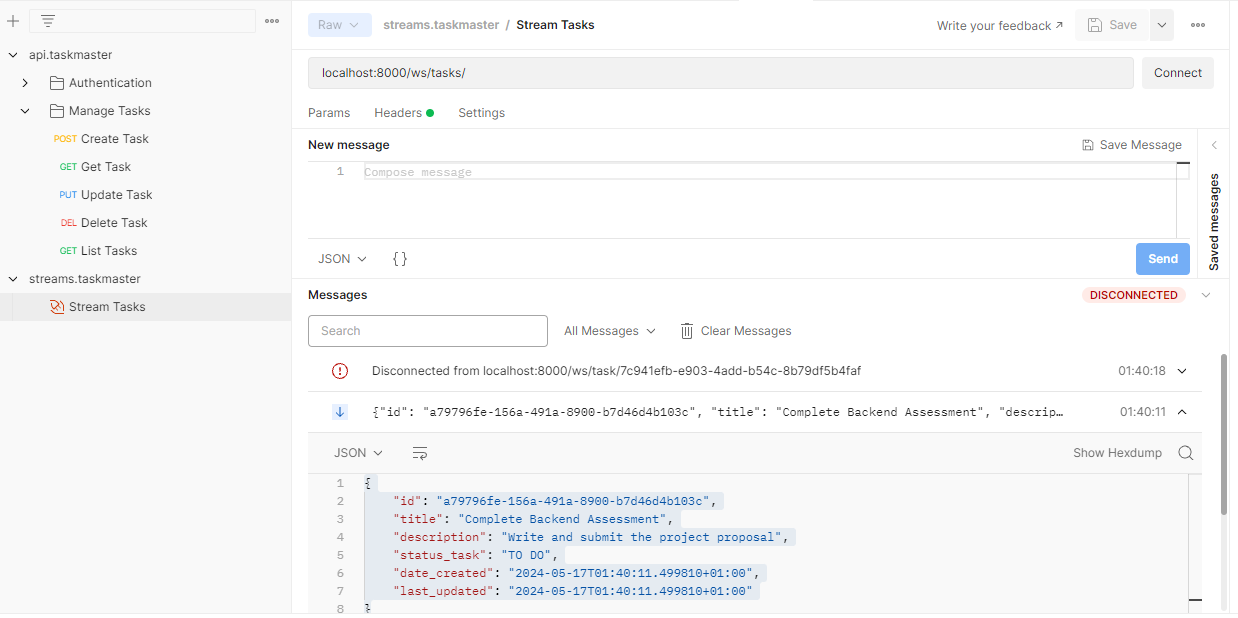
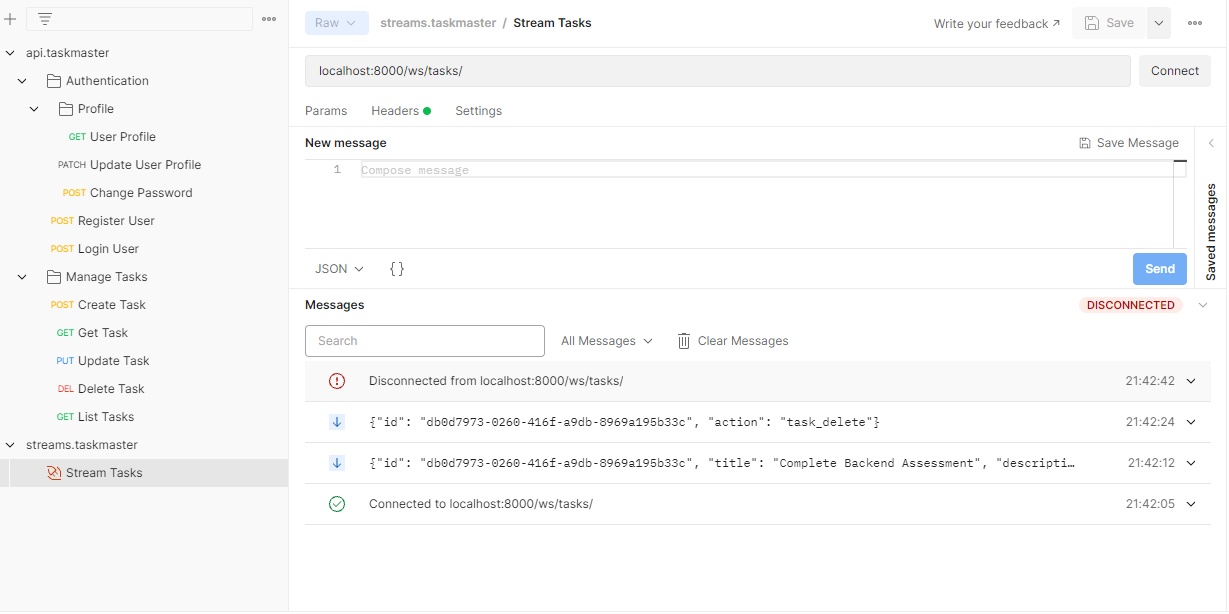
Accounts: Update `PUT` to `PATCH` for updating user profile

diff --git a/tests/accounts/test_auth_endpoints.py b/tests/accounts/test_auth_endpoints.py
@@ -82,7 +82,7 @@ class TestAuthEndpoints:
         user = user_factory.create()
 
         # Send a PUT request to update user profile
-        response = api_client(user=user).put(
+        response = api_client(user=user).(
             reverse("get_update_profile"),
             data={"first_name": "New First Name", "last_name": "New Last Name"},
             format="json",

diff --git a/accounts/views.py b/accounts/views.py
@@ -93,7 +93,7 @@ class ProfileAPI(generics.GenericAPIView):
             status=status.HTTP_200_OK,
         )
 
-    def put(self, request):
+    def patch(self, request):
         """
         PUT requests to update user profile data.
 

diff --git a/README.md b/README.md
@@ -240,13 +240,13 @@ Authorization: Bearer <access_token>
 }
 ```
 
-**Method:** `PUT`
+**Method:** `PATCH`
 
 Updating user profile
 
 **Request Example:**
 ```
-PUT api/v1/auth/profile/
+PATCH api/v1/auth/profile/
 
 Headers:
 Authorization: Bearer <access_token>
